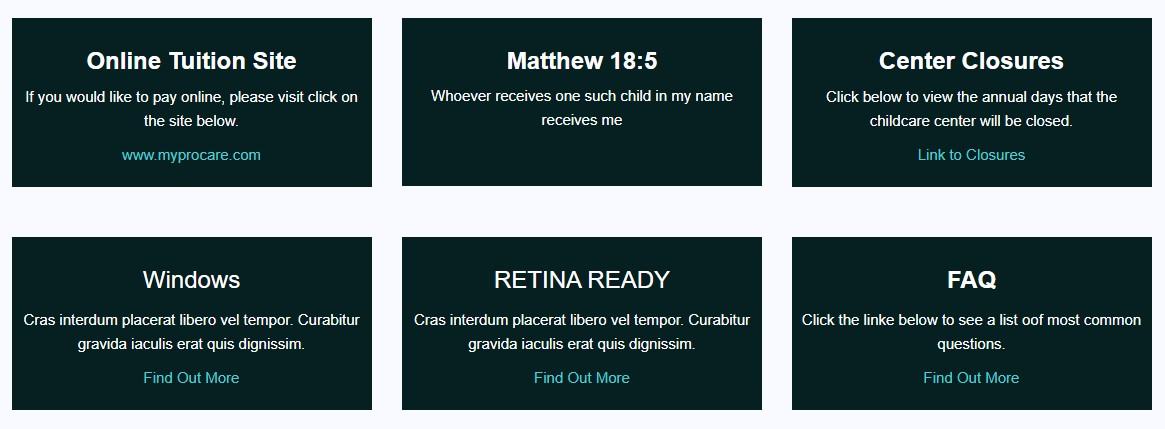
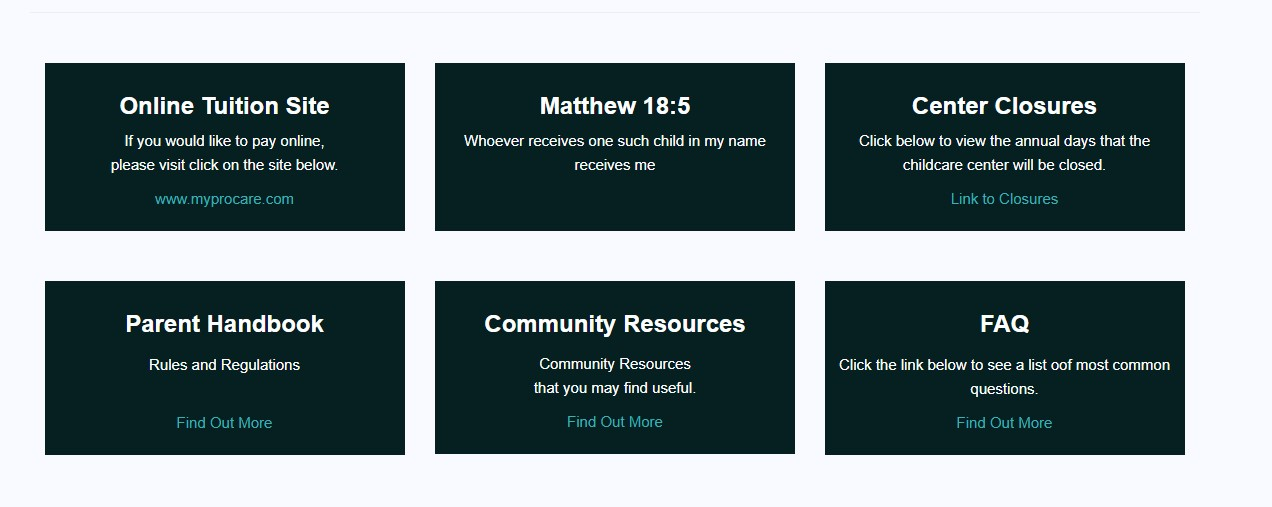
update community resources

diff --git a/_layouts/home_style.html b/_layouts/home_style.html
@@ -35,8 +35,8 @@
                         <div class="item active">
                             <img src="../assets/img/slider/painting-911804.jpg" height="400px" alt="Image of first carousel">
                             <div class="carousel-caption">
-                                <h3 class="carousel-title hidden-xs">Office BOOTSTRAP TEMPLATE</h3>
-                                <p class="carousel-body">RESPONSIVE \ MULTI PAGE</p>
+                                <h3 class="carousel-title hidden-xs"></h3>
+                                <p class="carousel-body"></p>
                             </div>
                         </div>
                         <!-- End Slide 1 -->
@@ -45,8 +45,8 @@
                         <div class="item">
                             <img src="../assets/img/slider/color-lead-1744817.jpg" height="400px" alt="Image of second carousel">
                             <div class="carousel-caption">
-                                <h3 class="carousel-title hidden-xs">EASY TO CUSTOMIZE</h3>
-                                <p class="carousel-body">BEAUTIFUL \ CLEAN \ MINIMAL</p>
+                                <h3 class="carousel-title hidden-xs"></h3>
+                                <p class="carousel-body"></p>
                             </div>
                         </div>
                         <!-- End Slide 2 -->
@@ -55,8 +55,8 @@
                         <div class="item">
                             <img src="../assets/img/slider/music-818459.jpg" height="400px" alt="Image of third carousel">
                             <div class="carousel-caption">
-                                <h3 class="carousel-title hidden-xs">MULTI-PURPOSE TEMPLATE</h3>
-                                <p class="carousel-body">PORTFOLIO \ CORPORATE \ CREATIVE</p>
+                                <h3 class="carousel-title hidden-xs"></h3>
+                                <p class="carousel-body"></p>
                             </div>
                         </div>
                         <!-- End Slide 3 -->
@@ -132,9 +132,9 @@
                 <div class="col-lg-4 col-md-4 col-sm-4 col-xs-12">
                     <div class="services-group wow animated zoomIn" data-wow-offset="40">
                         
-                        <h3 class="services-title"><span style="'font-weight: bold;">Community Resources</span></h3>
+                        <h3 class="services-title"><span style='font-weight: bold;'>Community Resources</span></h3>
                         <p class="services-body">Community Resources <br> that you may find useful.</p>
-                        <p class="services-more"><a href="#">Find Out More</a></p>
+                        <p class="services-more"><a href="./community_resources.html">Find Out More</a></p>
                     </div>
                 </div>
         

diff --git a/community_resources.html b/community_resources.html
@@ -1,0 +1,60 @@
+---
+title: Community Resources
+layout: default_style
+permalink: /community_resources
+---
+<!-- Google tag (gtag.js) -->
+<script async src="https://www.googletagmanager.com/gtag/js?id=G-N7LEERG5JQ"></script>
+<script>
+  window.dataLayer = window.dataLayer || [];
+  function gtag(){dataLayer.push(arguments);}
+  gtag('js', new Date());
+
+  gtag('config', 'G-N7LEERG5JQ');
+</script>
+
+<!-- Main Container -->
+
+<div class="row container-kamn">
+  <img src="assets/img/slider/1.jpg" class="blog-post" alt="Feature-img" align="right" width="100%", height="50%"> 
+</div>
+
+<div id="banners"></div>
+<div class="container">   
+  <div class="row">
+    <div class="side-left col-sm-4 col-md-4">
+      <h2>  Community Resources : </h2>
+      <p>Here is a list of community resouces that may be beneficial for parents/guardians and links to their 
+        websites.</p>
+      
+    </div>
+    <div class="col-sm-8 col-md-8">
+        <h2> Texas Workforce Commission: </h2>
+        <p>Texas Workforce Commission (TWC) is the state agency charged with overseeing and providing 
+            workforce development services to employers and job seekers of Texas. TWC strengthens the Texas 
+            economy by providing the workforce development component of the Governor's economic development 
+            strategy. Texas boasts an incredibly skilled workforce ready to attract enterprise to the Lone 
+            Star State. By focusing on the needs of employers, TWC gives Texas the competitive edge necessary 
+            to draw business here. For more information visit:  <a href="https://www.twc.texas.gov/">www.twc.texas.gov</a></p>
+
+        <h2>WIC:</h2>
+        <p>WIC provides support and inspiration to eat right, have a healthy pregnancy, breastfeed successfully, and raise amazing kids. 
+            For more information visit: <a href="https://texaswic.org/">texaswic.org</a></p>
+
+        <h2>State Licensing:</h2>
+        <p>Child Care Regulation is a statewide program that regulates child care operations and 
+            child-placing agencies by inspecting and investigating these operations, making sure 
+            they meet the standards Texas has set. For more information visit: <a href="https://www.dfps.texas.gov/Child_Care/">www.dfps.texas.gov/Child_Care/</a>
+        </p>
+
+        <h2>Voices for Children:</h2>
+        <p>Voices for Children provides volunteer advocates who ensure children who have experienced 
+            abuse or neglect have a safe and permanent home. For more information visit: <a href="https://www.vfcbrazos.org/">www.vfcbrazos.org/</a>
+        </p> 
+        
+            
+    </div>  
+  </div>    
+</div>  
+
+<!--End Main Container -->
